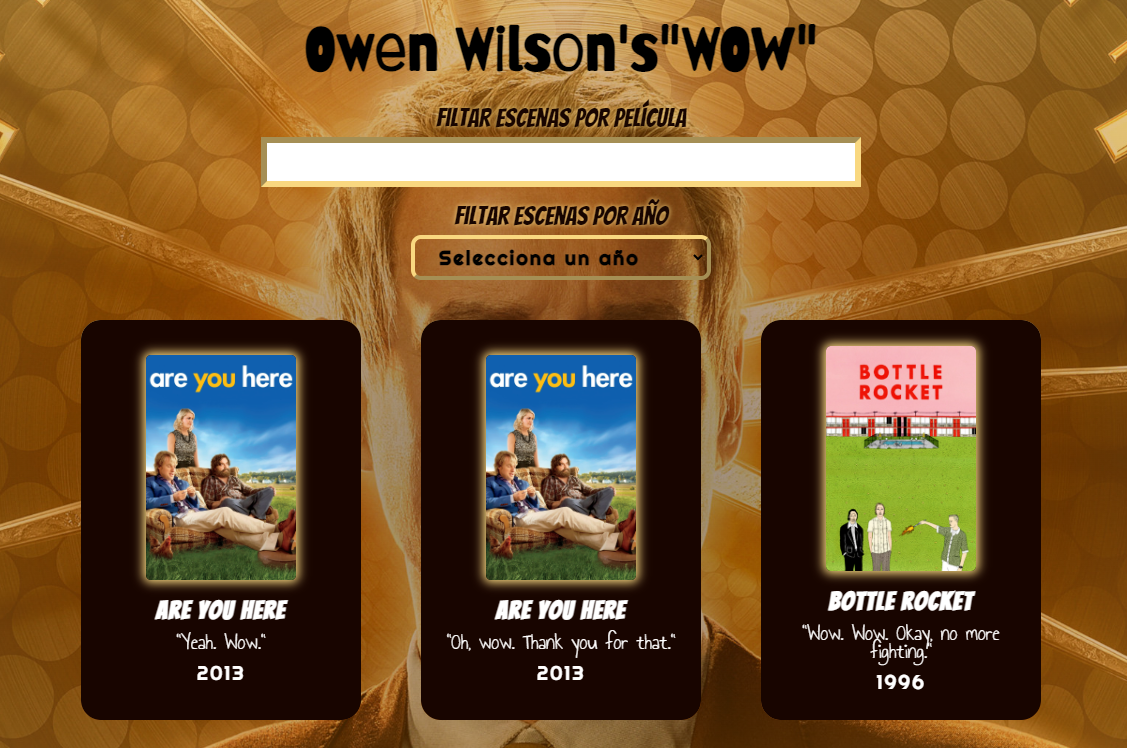
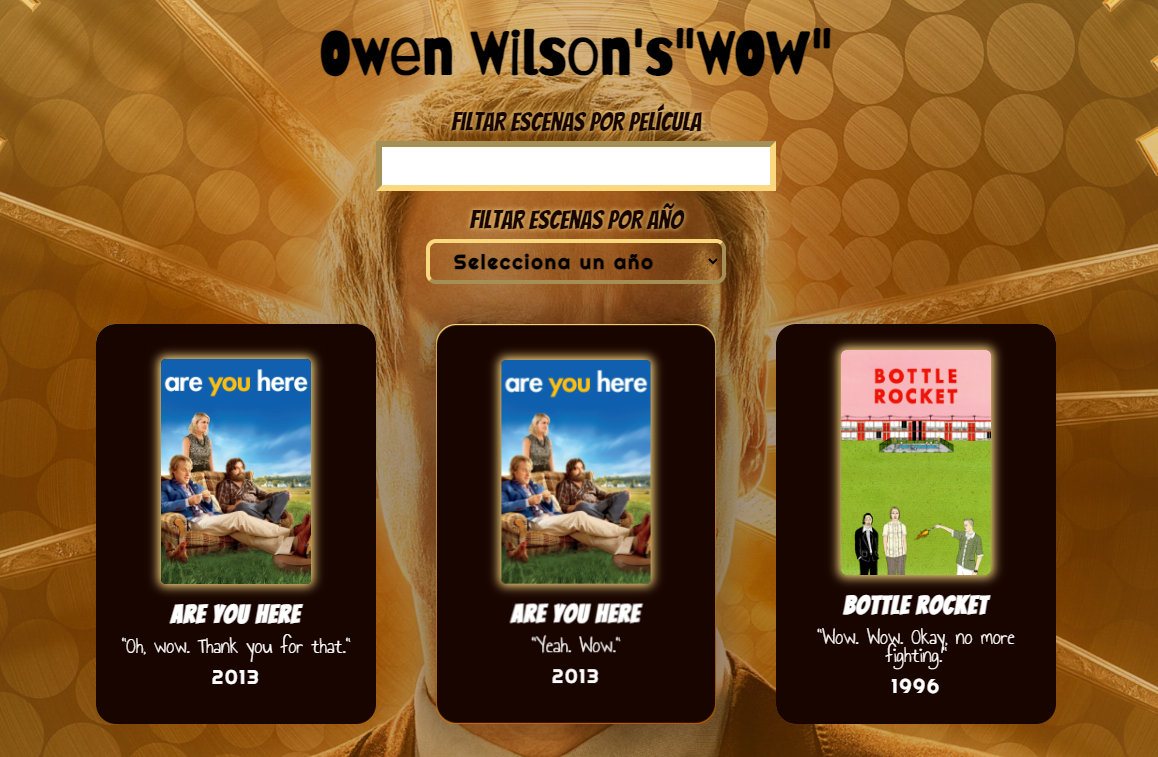
fix year's filter to render only the list of years of the scenes after filtering by name

diff --git a/src/components/App.js b/src/components/App.js
@@ -60,10 +60,16 @@ function App() {
     }
   };
 
+  // FILTER BY NAME
+  const userfiltersMovies = scenes.sort(orderScenes)
+    // Function to filter API data by name of the movie
+    .filter(scene => scene.movie.toLowerCase().includes(filterMovie.toLowerCase()))
 
+
+  // FILTER BY YEAR
   // Function to create the elements for the 'select' dynamically
   const getYears = () => {
-    const sceneYears = scenes.map(scene => scene.year);
+    const sceneYears = userfiltersMovies.map(scene => scene.year);
 
     // The years cannot be repeated
     const uniqueYearsObject = new Set(sceneYears);
@@ -72,10 +78,7 @@ function App() {
     return uniqueYears;
   };
 
-  const userfilters = scenes.sort(orderScenes)
-    // Function to filter API data by name of the movie
-    .filter(scene => scene.movie.toLowerCase().includes(filterMovie.toLowerCase()))
-
+  const userfilters = userfiltersMovies.sort(orderScenes)
     // Function to filter API data by year, including the case which no year is selected
     .filter(scene => filterYear === 'all' ? true : scene.year === parseInt(filterYear));
 

diff --git a/src/components/MovieSceneList.js b/src/components/MovieSceneList.js
@@ -3,7 +3,7 @@ import MovieSceneItem from './MovieSceneItem';
 const MovieSceneList = (props) => {
 
   // Function to render the list elements
-  const renderMovieList = props.scenes.map((scene, index) => 
+  const renderMovieList = props.scenes.map((scene, index) =>
     <li className='scene' key={index}>
       {/* Pass each object of the state of API array to the MovieSceneItem component with the props 'scene' */}
       <MovieSceneItem scene={scene} />
@@ -14,7 +14,7 @@ const MovieSceneList = (props) => {
 
     <section className='scenes'>
       <ul className='scenes__list'>
-        {renderMovieList.length === 0 ? <li className='scene__error'>No hay ninguna escena de película que coincida con tus datos de búsqueda 😔</li> : renderMovieList}
+        {renderMovieList.length === 0 ? <li className='error'>No hay ninguna escena de película que coincida con tus datos de búsqueda 😔</li> : renderMovieList}
       </ul>
     </section>
   );

diff --git a/README.md b/README.md
@@ -36,18 +36,19 @@ actor Owen Wilson ha dicho 'wow'. Estas escenas se pueden filtrar por nombre y a
 
 <h3 id="inicio">Inicio 🎬</h3>
 
-<p align="justify">En un primer momento, la página muestra un listado aleatorio de cócteles y un buscador.</p>
-<p align="justify">Desde este momento ya se puede realizar una búsqueda del cóctel por el que sientas curiosidad, añadir o quitar cualquiera de los cócteles que se muestran a favoritos y echar un vistazo a los que ya tenía guardados haciendo click en la pestaña que se identifica con un corazón (favoritos).</p>
+<p align="justify">En un primer momento, la página muestra un listado de 50 escenas donde el actor Owen Wilson ha
+dicho 'wow'.</p>
+<p align="justify">Para ello, se hace una consulta al API <a href="https://owen-wilson-wow-api.herokuapp.com/" target="_blank">The Owen Wilson WoW API</a> que nos devuelve información de 50 escenas de películas aleatorias.</p>
 
-<h3 id="buscar">Buscar 🔍</h3>
+<h3 id="filtro-película">Filtrar por película 🔍</h3>
 
-<p align="justify">Al hacer clic sobre el botón de Buscar, la aplicación se conecta al API <a href="https://www.thecocktaildb.com" target="_blank">TheCocktailDB</a> y devuelve un listado de los cócteles que contienen la palabra que el usurio haya escrito en el cuadro de texto.</p>
+<p align="justify">Una vez tenemos el listado de escenas, hay un filtro para buscar la escena por coincidencia del nombre que el usuario escriba en el cuadro de texto con alguna palabra que contenga título de la película.</p>
 
-<h3 id="favoritos">Agregar/quitar de favoritos ❤ / 💔</h3>
+<h3 id="filtro-año">Filtrar por año 📅</h3>
 
-<p align="justify">Cada uno de los cócteles que se renderizan tiene un corazón en la esquina superior derecha, en el cual puedes hacer click y señalar que ese cóctel es tu favorito o que ha dejado de serlo. Cuando pulsas el corazón ocurren dos cosas: el cóctel se cambia su apariencia visual y se añade a la lista de favoritos.</p>
+<p align="justify">Además del cuadro de búsqueda, hay un desplegable con los años por los que se puede filtrar el listado de escenas. Los años que contiene el mismo son los coincidentes con los de las escenas, es decir, si al filtrar por nombre sólo se muestra una escena, también habrá un único año en el desplegable.</p>
 
-<h3 id="lista-favoritos">Listado de favoritos 💟</h3>
+<h3 id="detalle">Detalle de las escenas 🎞</h3>
 
 <p align="justify">Hasta ahora hemos estado viendo la página principal en la que se ven los cócteles por defecto o los que hemos buscado, pero, si nos desplazamos a la pestaña de favoritos tendremos un listados de cócteles que hemos seleccionado nosotros. Cada uno de éstos tiene un botón para eliminarlo de la lista de favoritos y, al final de la misma, un botón para eliminarlos todos a la vez.</p>
 
@@ -97,8 +98,7 @@ actor Owen Wilson ha dicho 'wow'. Estas escenas se pueden filtrar por nombre y a
 - Flexbox
 - Diseño _responsive_
 - Flujo de trabajo _Mobile-first_
-- JavaScript <img src="./src/images/README/JS.png" width=4%/>
-- Gulp <img src="./src/images/README/gulp.png" width=2%/>
+- React <img src="./src/images/README/react.png" width=4%/>
 
 <h2 id="autora">✒ Autora</h2>
 
